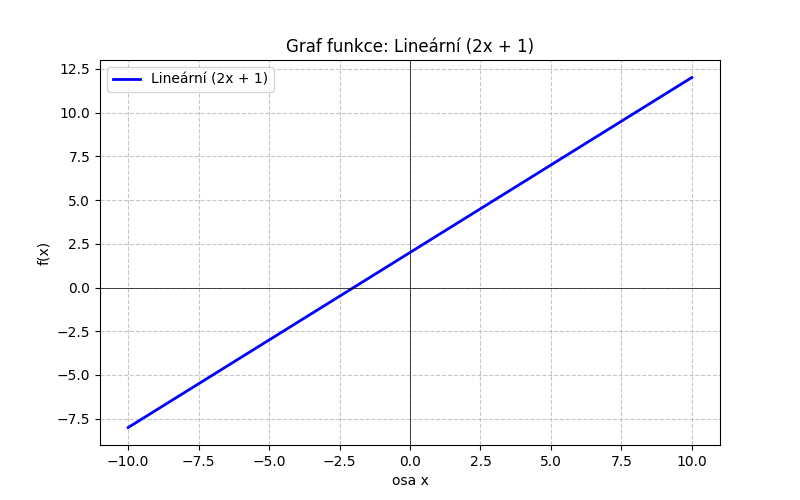
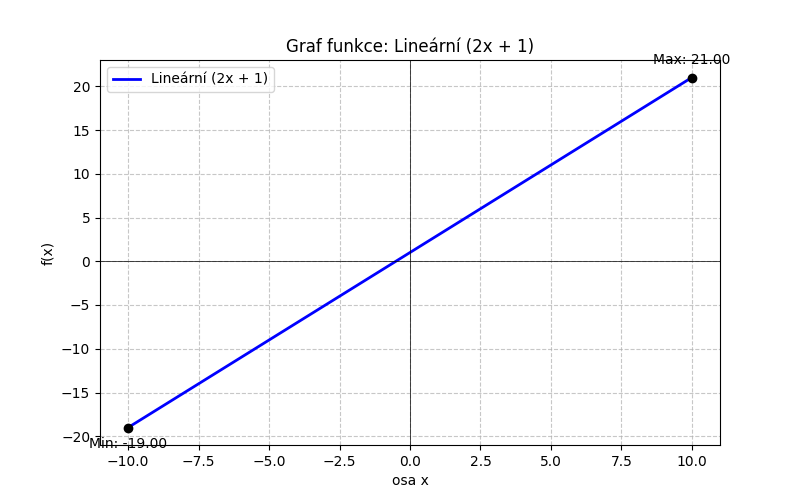
vše kromě ex

diff --git a/main.py b/main.py
@@ -1,16 +1,45 @@
 import numpy as np
 import matplotlib.pyplot as plt
+import os
 from functions import (
     linear_function, 
     quadratic_function, 
     sine_function, 
     exponential_function, 
     logarithmic_function)
+
+# Vytvoření složky images, pokud neexistuje
+if not os.path.exists("images"):
+    os.makedirs("images")
+
 x = np.linspace(-10, 10, 1000)
 
 def save_graf(x, y, name, soubor, color):
     plt.figure(figsize=(8, 5))
     plt.plot(x, y, label=name, color=color, linewidth=2)
+    
+    # --- POKROČILÁ ČÁST (Bod 7, Možnost C): Minimum a Maximum ---
+    # Odfiltrujeme NaN hodnoty pro výpočet extrémů (důležité pro logaritmus)
+    mask = ~np.isnan(y)
+    if np.any(mask):
+        y_clean = y[mask]
+        x_clean = x[mask]
+        
+        y_max = np.max(y_clean)
+        x_max = x_clean[np.argmax(y_clean)]
+        
+        y_min = np.min(y_clean)
+        x_min = x_clean[np.argmin(y_clean)]
+
+        # Vyznačení do grafu (pouze pokud jsou v rozumném rozsahu)
+        if y_max < 1000 and y_max > -1000:
+            plt.scatter(x_max, y_max, color='black', zorder=5)
+            plt.annotate(f'Max: {y_max:.2f}', (x_max, y_max), textcoords="offset points", xytext=(0,10), ha='center')
+        
+        if y_min > -1000 and y_min < 1000:
+            plt.scatter(x_min, y_min, color='black', zorder=5)
+            plt.annotate(f'Min: {y_min:.2f}', (x_min, y_min), textcoords="offset points", xytext=(0,-15), ha='center')
+
     plt.title(f"Graf funkce: {name}")
     plt.xlabel("osa x")
     plt.ylabel("f(x)")
@@ -19,37 +48,26 @@ def save_graf(x, y, name, soubor, color):
     plt.grid(True, linestyle='--', alpha=0.7)
     plt.legend()
     
-    # Uložení do složky
-    cesta = f"images/{soubor}.png"
-    plt.savefig(cesta)
+    plt.savefig(f"images/{soubor}.png")
     plt.close()
-    
-save_graf(x, linear_function(2, 1, x), "Lineární (2x + 1)", "linear", "blue")
-save_graf(x, quadratic_function(1, 2, -5, x), "Kvadratická (x² + 2x - 5)", "quadratic", "green")
+    print(f"Graf {soubor}.png uložen.")
+
+# Volání funkcí
+save_graf(x, linear_function(x, 2, 1), "Lineární (2x + 1)", "linear", "blue")
+save_graf(x, quadratic_function(x, 1, 2, -5), "Kvadratická (x² + 2x - 5)", "quadratic", "green")
 save_graf(x, sine_function(x), "Sinus", "sine", "red")
-save_graf(x, exponential_function(0.5, x), "Exponenciální (e^0.5x)", "exponential", "purple")
-save_graf(x, logarithmic_function(1, x), "Logaritmická (ln x)", "logarithmic", "orange")
+save_graf(x, exponential_function(x, 0.5), "Exponenciální (e^0.5x)", "exponential", "purple")
+save_graf(x, logarithmic_function(x, 1), "Logaritmická (ln x)", "logarithmic", "orange")
 
-#kombinace
+# Kombinovaný graf
 plt.figure(figsize=(10, 6))
-plt.plot(x, linear_function(2, 1, x), 
-         label="Lineární (2x + 1)", color="blue", linestyle="-")
-
-plt.plot(x, quadratic_function(1, 2, -5, x), 
-         label="Kvadratická (x² + 2x - 5)", color="green", linestyle="--")
-
-y_sine_scaled = sine_function(x) * 10
-plt.plot(x, y_sine_scaled, 
-         label="Sinus (10 * sin x)", color="red", linestyle=":")
-
-plt.title("Kombinovaný graf: Lineární, Kvadratická a Sinusová funkce")
+plt.plot(x, linear_function(x, 2, 1), label="Lineární", color="blue")
+plt.plot(x, quadratic_function(x, 1, 2, -5), label="Kvadratická", color="green", linestyle="--")
+plt.plot(x, sine_function(x) * 10, label="Sinus (10x)", color="red", linestyle=":")
+plt.title("Kombinovaný graf")
 plt.xlabel("osa x")
 plt.ylabel("f(x)")
-plt.axhline(0, color='black', linewidth=0.5)
-plt.axvline(0, color='black', linewidth=0.5)
-plt.grid(True, linestyle='--', alpha=0.7)
-
-plt.ylim(-20, 100) 
+plt.ylim(-20, 100)
 plt.legend()
 plt.savefig("images/multiple_functions.png")
 plt.close()

diff --git a/functions.py b/functions.py
@@ -8,6 +8,5 @@ def sine_function(x):
 def exponential_function(x, a):
     return np.exp(a * x)
 def logarithmic_function(x, a):
-    if x <= 0:
-        return float('nan')
-    return np.log(a * x)
+    return np.log(np.where(a * x > 0, a * x, np.nan))
+

diff --git a/README.md b/README.md
@@ -1,5 +1,8 @@
 co program dělá
-využívá knihovny numpy a matplotlib
+    využívá knihovny numpy a matplotlib k vizualizaci grafů definovaných funkcí
+
 jak ho spustit
+    nainstalováním si potřebných knihoven a kliknutím na tlačítko run ve vs, nebo zadáním python main.py do terminálu vs
 jaké funkce vykresluje
     lineární, kvadratická, sinusová, exponenciální a logaritická 
+a hledá jejich minima a maxima
